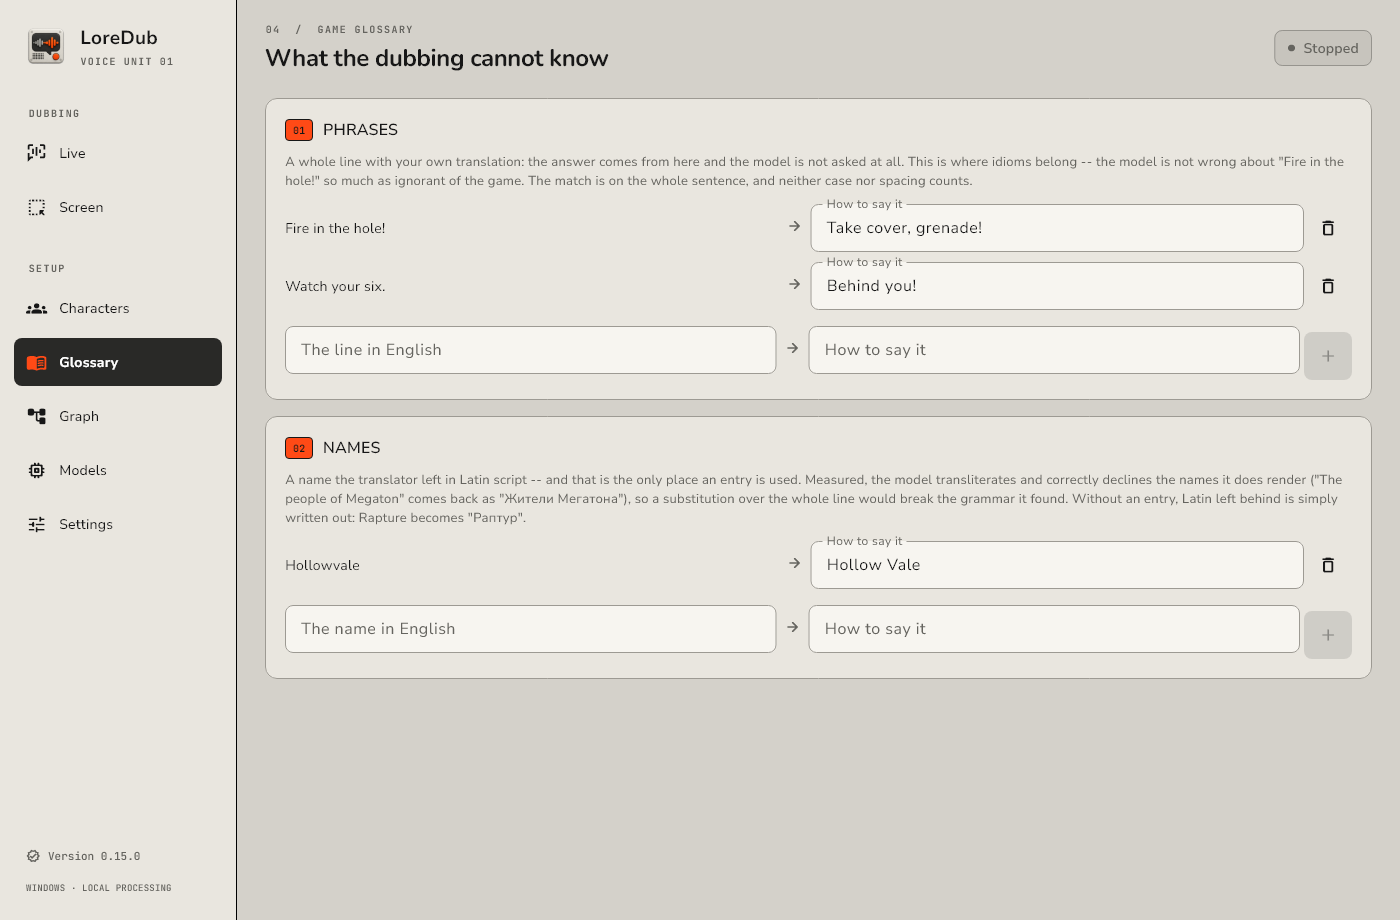
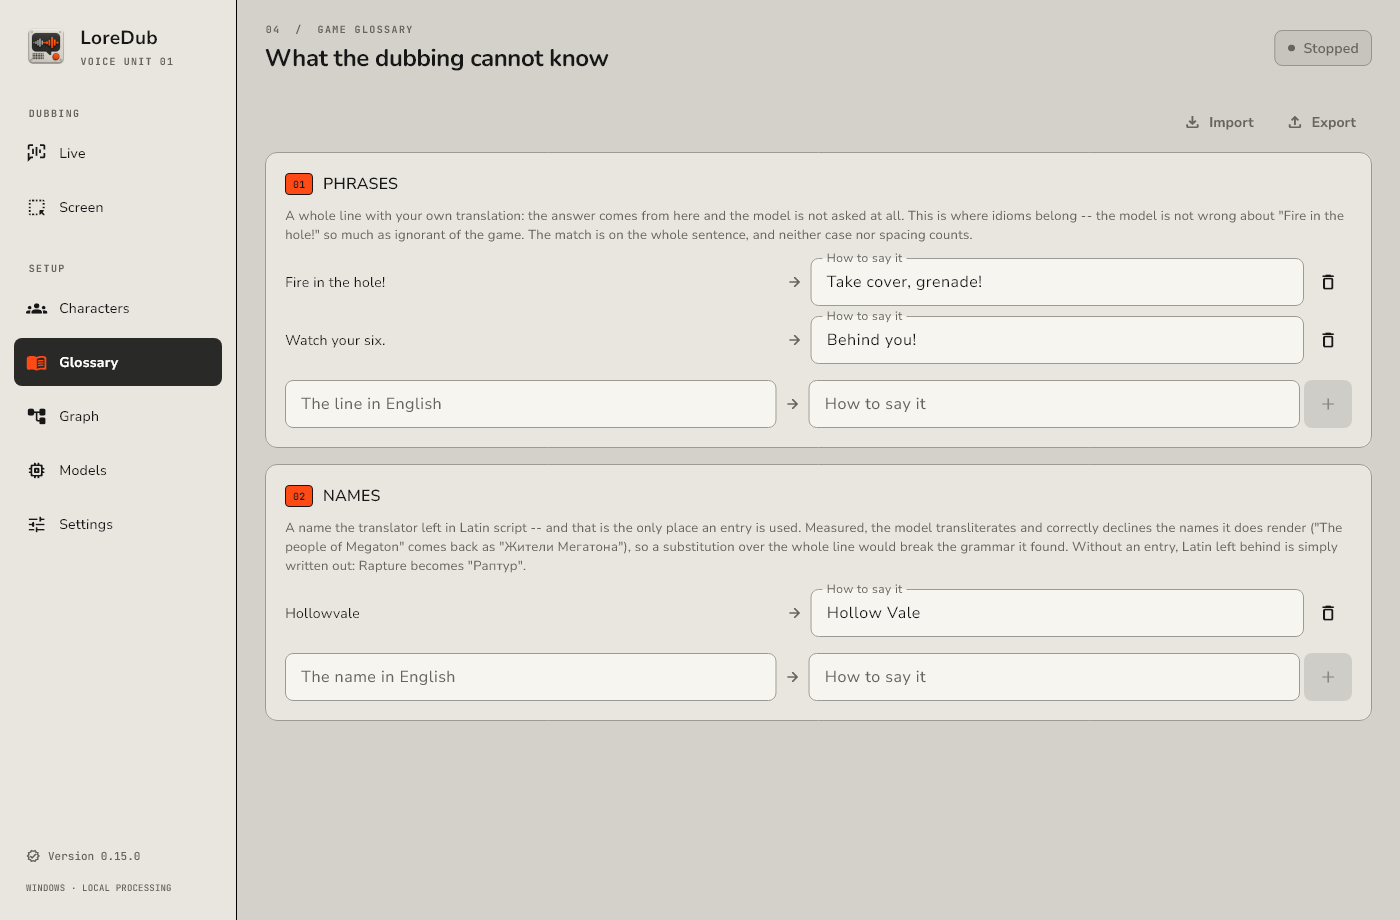
feat: carry a glossary between machines
A glossary collected over one game is the kind of thing worth passing on
whole, so it exports and imports as the file it already is. An import merges
by what an entry is filed under: the same file read twice leaves one of each,
and a file that disagrees wins, the player having chosen it just now. A file
holding no entries is named rather than passed over in silence -- that is the
difference between an import and a start, one being the player naming a file
and the other the application opening its own.

The buttons stand over both lists rather than beside either, one file holding
the two together.

While there: the + button and the bin sat below their fields, lined up by
paddings measured on the eye. A field, an arrow and a button are one line, so
they line up on their middles instead.

Changed region(s): [[0.1843, 0.1217, 0.9829, 0.7609], [0.215, 0.3652, 0.3071, 0.3957], [0.215, 0.3043, 0.2764, 0.3348]]

diff --git a/lib/src/ui/dashboard/glossary_screen.dart b/lib/src/ui/dashboard/glossary_screen.dart
@@ -1,6 +1,7 @@
 // Copyright (c) 2026 LoreDub contributors.
 // SPDX-License-Identifier: MIT
 
+import 'package:file_selector/file_selector.dart';
 import 'package:flutter/material.dart';
 import 'package:flutter_bloc/flutter_bloc.dart';
 
@@ -23,6 +24,25 @@ class GlossaryPanel extends StatelessWidget {
 
   final DashboardCubits cubits;
 
+  static const _json = [
+    XTypeGroup(label: 'LoreDub', extensions: ['json']),
+  ];
+
+  Future<void> _export() async {
+    final location = await getSaveLocation(
+      suggestedName: 'loredub-glossary.json',
+      acceptedTypeGroups: _json,
+    );
+    if (location == null) return;
+    await cubits.glossary.export(location.path);
+  }
+
+  Future<void> _import() async {
+    final chosen = await openFiles(acceptedTypeGroups: _json);
+    if (chosen.isEmpty) return;
+    await cubits.glossary.import([for (final file in chosen) file.path]);
+  }
+
   @override
   Widget build(BuildContext context) {
     final l10n = AppLocalizations.of(context);
@@ -33,6 +53,31 @@ class GlossaryPanel extends StatelessWidget {
         child: ListView(
           padding: EdgeInsets.zero,
           children: [
+            // Over both lists rather than beside either: one file holds them
+            // together, and a glossary of a game is worth passing on whole.
+            Padding(
+              padding: const EdgeInsets.only(bottom: 6),
+              child: Row(
+                mainAxisAlignment: MainAxisAlignment.end,
+                children: [
+                  TextButton.icon(
+                    key: const ValueKey('glossary-import'),
+                    onPressed: _import,
+                    icon: const Icon(Icons.file_download_outlined, size: 18),
+                    label: Text(l10n.glossaryImport),
+                    style: TextButton.styleFrom(foregroundColor: LoreDubPalette.mutedInk),
+                  ),
+                  const SizedBox(width: 4),
+                  TextButton.icon(
+                    key: const ValueKey('glossary-export'),
+                    onPressed: state.glossary.isEmpty ? null : _export,
+                    icon: const Icon(Icons.file_upload_outlined, size: 18),
+                    label: Text(l10n.glossaryExport),
+                    style: TextButton.styleFrom(foregroundColor: LoreDubPalette.mutedInk),
+                  ),
+                ],
+              ),
+            ),
             _GlossarySection(
               number: '01',
               label: l10n.glossaryPhrases,
@@ -178,19 +223,13 @@ class _EntryRowState extends State<_EntryRow> {
   Widget build(BuildContext context) => Padding(
     padding: const EdgeInsets.only(bottom: 10),
     child: Row(
-      crossAxisAlignment: CrossAxisAlignment.start,
       children: [
         // The source is shown rather than edited: it is what the entry is
         // filed under, and editing it in place would silently found a second
         // entry while the first went on answering.
-        Expanded(
-          child: Padding(
-            padding: const EdgeInsets.only(top: 14),
-            child: Text(widget.entry.source, style: const TextStyle(fontSize: 14)),
-          ),
-        ),
+        Expanded(child: Text(widget.entry.source, style: const TextStyle(fontSize: 14))),
         const Padding(
-          padding: EdgeInsets.only(top: 14, left: 8, right: 8),
+          padding: EdgeInsets.symmetric(horizontal: 8),
           child: Icon(Icons.arrow_forward_rounded, size: 16, color: LoreDubPalette.mutedInk),
         ),
         Expanded(
@@ -257,7 +296,6 @@ class _AddRowState extends State<_AddRow> {
 
   @override
   Widget build(BuildContext context) => Row(
-    crossAxisAlignment: CrossAxisAlignment.start,
     children: [
       Expanded(
         child: TextField(
@@ -269,7 +307,7 @@ class _AddRowState extends State<_AddRow> {
         ),
       ),
       const Padding(
-        padding: EdgeInsets.only(top: 14, left: 8, right: 8),
+        padding: EdgeInsets.symmetric(horizontal: 8),
         child: Icon(Icons.arrow_forward_rounded, size: 16, color: LoreDubPalette.mutedInk),
       ),
       Expanded(
@@ -282,7 +320,7 @@ class _AddRowState extends State<_AddRow> {
         ),
       ),
       Padding(
-        padding: const EdgeInsets.only(top: 6, left: 4),
+        padding: const EdgeInsets.only(left: 4),
         child: IconButton.filled(
           key: ValueKey('glossary-add-${widget.kind.name}'),
           tooltip: AppLocalizations.of(context).glossaryAdd,

diff --git a/test/src/data/services/glossary_service_test.dart b/test/src/data/services/glossary_service_test.dart
@@ -5,6 +5,7 @@ import 'dart:io';
 
 import 'package:flutter_test/flutter_test.dart';
 import 'package:lore_dub/src/data/services/glossary_service.dart';
+import 'package:lore_dub/src/domain/failure.dart';
 import 'package:lore_dub/src/domain/glossary.dart';
 import 'package:path/path.dart' as path;
 
@@ -57,6 +58,41 @@ void main() {
       '{"kind":"name","source":"Megaton","reading":""}]}',
     );
     expect((await service.load()).entries, [rapture]);
+  });
+
+  test('writes a file an import reads back', () async {
+    final carried = path.join(temp.path, 'carried.json');
+    await service.exportTo(carried, const Glossary(entries: [grenade, rapture]));
+
+    expect((await service.readFiles([carried])).entries, [grenade, rapture]);
+  });
+
+  test('merges several files, the last word winning', () async {
+    const louder = GlossaryEntry(
+      kind: GlossaryKind.phrase,
+      source: 'Fire in the hole!',
+      reading: 'Граната!',
+    );
+    final first = path.join(temp.path, 'first.json');
+    final second = path.join(temp.path, 'second.json');
+    await service.exportTo(first, const Glossary(entries: [grenade, rapture]));
+    await service.exportTo(second, const Glossary(entries: [louder]));
+
+    expect((await service.readFiles([first, second])).entries, [louder, rapture]);
+  });
+
+  test('says which file held no glossary rather than importing nothing', () async {
+    final empty = path.join(temp.path, 'empty.json');
+    await File(empty).writeAsString('{"version":1,"entries":[]}');
+
+    await expectLater(
+      service.readFiles([empty]),
+      throwsA(
+        isA<LoreDubFailure>()
+            .having((failure) => failure.code, 'code', FailureCode.glossaryImportFailed)
+            .having((failure) => failure.detail, 'detail', 'empty.json'),
+      ),
+    );
   });
 
   test('a source written twice replaces the first and keeps its place', () {

diff --git a/lib/src/data/services/glossary_service.dart b/lib/src/data/services/glossary_service.dart
@@ -44,6 +44,44 @@ class GlossaryService {
     }
   }
 
+  /// Writes [glossary] where the player asked, as an import reads back. The
+  /// whole of it or one entry is the same file with different contents.
+  Future<void> exportTo(String destination, Glossary glossary) async {
+    try {
+      await File(destination).writeAsString(jsonEncode(glossary.toJson()), flush: true);
+    } on FileSystemException catch (error) {
+      throw LoreDubFailure(FailureCode.glossaryExportFailed, detail: error.message);
+    }
+  }
+
+  /// What the files the player chose hold, in the order they were named. A
+  /// file with nothing in it -- the wrong file, or a damaged one -- is
+  /// reported rather than passed over in silence, which is the difference
+  /// between this and [load]: one is the player asking for a file, the other
+  /// is the application opening its own.
+  Future<Glossary> readFiles(List<String> sources) async {
+    var read = Glossary.empty;
+    for (final source in sources) {
+      try {
+        final incoming = Glossary.fromJson(decodeJsonText(await File(source).readAsString()));
+        if (incoming.isEmpty) {
+          throw LoreDubFailure(
+            FailureCode.glossaryImportFailed,
+            detail: path.basename(source),
+          );
+        }
+        for (final entry in incoming.entries) {
+          read = read.keeping(entry);
+        }
+      } on FormatException {
+        throw LoreDubFailure(FailureCode.glossaryImportFailed, detail: path.basename(source));
+      } on FileSystemException {
+        throw LoreDubFailure(FailureCode.glossaryImportFailed, detail: path.basename(source));
+      }
+    }
+    return read;
+  }
+
   /// Writes it whole, renamed into place in one step so a crash mid-write
   /// leaves what was there before.
   Future<void> save(Glossary glossary) async {

diff --git a/lib/src/ui/dashboard/cubits/glossary_cubit.dart b/lib/src/ui/dashboard/cubits/glossary_cubit.dart
@@ -62,6 +62,32 @@ class GlossaryCubit extends Cubit<GlossaryState> {
   Future<void> remove(GlossaryKind kind, String source) =>
       _keep(state.glossary.without(kind, source));
 
+  /// Writes everything down where the player asked.
+  Future<void> export(String destination) async {
+    try {
+      await _appRepository.exportGlossary(destination, state.glossary);
+    } catch (error) {
+      _errors.report(error);
+    }
+  }
+
+  /// Reads the files the player chose into what is already here. Merged by
+  /// what an entry is filed under, so importing the same file twice leaves
+  /// one of each rather than two, and a file that disagrees wins -- the
+  /// player chose it just now.
+  Future<void> import(List<String> sources) async {
+    try {
+      final incoming = await _appRepository.readGlossaryFiles(sources);
+      var merged = state.glossary;
+      for (final entry in incoming.entries) {
+        merged = merged.keeping(entry);
+      }
+      await _keep(merged);
+    } catch (error) {
+      _errors.report(error);
+    }
+  }
+
   /// Stages a state a widget test wants to render without reading a file.
   @visibleForTesting
   void seed(GlossaryState value) => emit(value);

diff --git a/lib/l10n/app_localizations.dart b/lib/l10n/app_localizations.dart
@@ -267,6 +267,30 @@ abstract class AppLocalizations {
   /// **'Что дубляж знать не может'**
   String get titleGlossary;
 
+  /// No description provided for @glossaryExport.
+  ///
+  /// In ru, this message translates to:
+  /// **'Выгрузить'**
+  String get glossaryExport;
+
+  /// No description provided for @glossaryImport.
+  ///
+  /// In ru, this message translates to:
+  /// **'Импорт'**
+  String get glossaryImport;
+
+  /// No description provided for @failureGlossaryExportFailed.
+  ///
+  /// In ru, this message translates to:
+  /// **'Не удалось выгрузить словарь: {detail}'**
+  String failureGlossaryExportFailed(String detail);
+
+  /// No description provided for @failureGlossaryImportFailed.
+  ///
+  /// In ru, this message translates to:
+  /// **'В файле {detail} нет словаря'**
+  String failureGlossaryImportFailed(String detail);
+
   /// No description provided for @glossaryPhrases.
   ///
   /// In ru, this message translates to:

diff --git a/lib/src/data/repositories/app_repository.dart b/lib/src/data/repositories/app_repository.dart
@@ -59,6 +59,14 @@ class AppRepository {
   /// game's, so every session that translates is handed the same file.
   Future<Glossary> loadGlossary() => _glossary.load();
 
+  /// Writes the glossary where the player asked.
+  Future<void> exportGlossary(String destination, Glossary glossary) =>
+      _glossary.exportTo(destination, glossary);
+
+  /// What the files the player chose hold, for the screen to merge into what
+  /// is already written down.
+  Future<Glossary> readGlossaryFiles(List<String> sources) => _glossary.readFiles(sources);
+
   /// Keeps it, and tells a session already running: the player writes an
   /// entry because they just heard the line, and mean the next one to be
   /// said their way rather than the next session.

diff --git a/lib/src/ui/failure_messages.dart b/lib/src/ui/failure_messages.dart
@@ -62,6 +62,8 @@ String describeFailure(AppLocalizations l10n, Object error) {
     FailureCode.charactersExportFailed => l10n.failureCharactersExportFailed(detail),
     FailureCode.charactersImportFailed => l10n.failureCharactersImportFailed(detail),
     FailureCode.glossarySaveFailed => l10n.failureGlossarySaveFailed(detail),
+    FailureCode.glossaryExportFailed => l10n.failureGlossaryExportFailed(detail),
+    FailureCode.glossaryImportFailed => l10n.failureGlossaryImportFailed(detail),
     FailureCode.pipelinesSaveFailed => l10n.failurePipelinesSaveFailed(detail),
     FailureCode.pipelinesExportFailed => l10n.failurePipelinesExportFailed(detail),
     FailureCode.pipelinesImportFailed => l10n.failurePipelinesImportFailed(detail),

diff --git a/lib/l10n/app_localizations_ru.dart b/lib/l10n/app_localizations_ru.dart
@@ -102,6 +102,22 @@ class AppLocalizationsRu extends AppLocalizations {
   String get titleGlossary => 'Что дубляж знать не может';
 
   @override
+  String get glossaryExport => 'Выгрузить';
+
+  @override
+  String get glossaryImport => 'Импорт';
+
+  @override
+  String failureGlossaryExportFailed(String detail) {
+    return 'Не удалось выгрузить словарь: $detail';
+  }
+
+  @override
+  String failureGlossaryImportFailed(String detail) {
+    return 'В файле $detail нет словаря';
+  }
+
+  @override
   String get glossaryPhrases => 'ФРАЗЫ';
 
   @override

diff --git a/lib/l10n/app_localizations_en.dart b/lib/l10n/app_localizations_en.dart
@@ -102,6 +102,22 @@ class AppLocalizationsEn extends AppLocalizations {
   String get titleGlossary => 'What the dubbing cannot know';
 
   @override
+  String get glossaryExport => 'Export';
+
+  @override
+  String get glossaryImport => 'Import';
+
+  @override
+  String failureGlossaryExportFailed(String detail) {
+    return 'The glossary could not be exported: $detail';
+  }
+
+  @override
+  String failureGlossaryImportFailed(String detail) {
+    return 'The file $detail holds no glossary';
+  }
+
+  @override
   String get glossaryPhrases => 'PHRASES';
 
   @override

diff --git a/lib/src/domain/failure.dart b/lib/src/domain/failure.dart
@@ -119,6 +119,12 @@ enum FailureCode {
   /// What the player wrote down about their games could not be saved.
   glossarySaveFailed,
 
+  /// The glossary could not be written where the player asked.
+  glossaryExportFailed,
+
+  /// A file the player chose holds no glossary; the detail is its name.
+  glossaryImportFailed,
+
   /// The shelf of saved schemes could not be written.
   pipelinesSaveFailed,
 

diff --git a/CHANGELOG.md b/CHANGELOG.md
@@ -12,6 +12,12 @@
   нет. И открывается она теперь сразу по щелчку: панель ждала своей половины хода
   даже тогда, когда занимать очередь было не за кем, и щелчок по ноде читался как
   промах.
+- Словарь выгружается и загружается файлом — собранный по одной игре можно
+  передать целиком. При загрузке записи сливаются с вашими: тот же файл дважды
+  не удвоит список, а расхождение решается в пользу того, что только что загрузили.
+  Файл без словаря называется по имени, а не проглатывается молча.
+- На «Словаре» кнопка «+» и корзина встали по центру своих полей — раньше
+  они сидели ниже, по отступам, подобранным на глаз.
 - Реплику можно поправить прямо в расшифровке на «Эфире»: рядом со
   временем реплики появилась кнопка, которая открывает её перевод для правки и
   кладёт исправленное в «Словарь» как фразу. То, что прозвучало не так, слышно один

diff --git a/CLAUDE.md b/CLAUDE.md
@@ -272,7 +272,14 @@ model translates a name it reads as a word, and differently from line to line
 "Rapture" runs "Восторг", "Восхищение", "в восторге", and "Whiterun"
 reaches "Жители Белгорода". No Latin is left to hook onto, so the only
 lever the player has over it is a phrase entry on the line itself. Matching ignores case and spacing on both kinds.
-An entry is usually written from the transcript rather than
+Export and import are `file_selector` dialogs over that same
+file, so a glossary of a game is passed on whole and read back merged by what
+an entry is filed under -- the same file imported twice leaves one of each,
+and a file that disagrees wins, the player having chosen it just now. A file
+holding no entries is reported by name rather than passed over, which is the
+difference between an import and a start: one is the player naming a file,
+the other the application opening its own. An entry is usually written from
+the transcript rather than
 on this screen: a line is only known to have gone wrong the moment it is
 heard, and `_CorrectLineButton` beside its latency badge on Эфир opens on
 what was said with `TranscriptEntry.english` as the source, so the screen is
